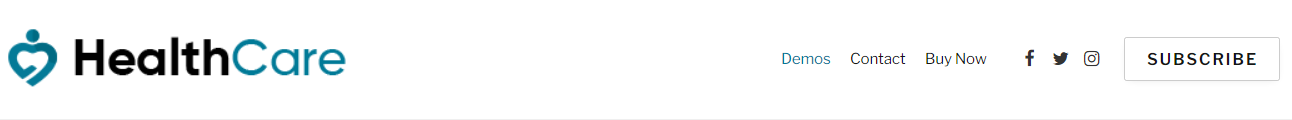
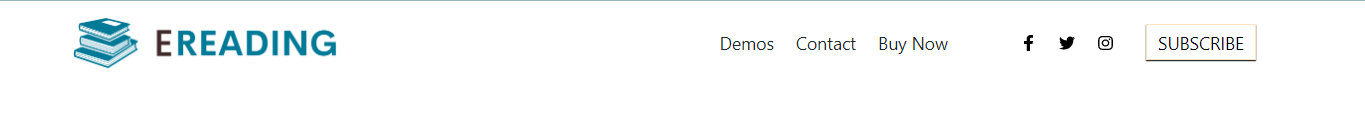
update module

diff --git a/front-end/module/E-01/less/style-01.less b/front-end/module/E-01/less/style-01.less
@@ -13,8 +13,10 @@
       align-items: center;
       flex: 1 1 auto;
        // nav right
-      .left-logo {
-        padding: 10px;
+    }
+    .left {
+      .left-logo{
+        width: 250px;
       }
     }
 
@@ -26,7 +28,7 @@
         .menu-top-nav {
           display: flex;
           list-style: none;
-          transform: translateY(13px);
+          // transform: translateY(13px);
           .menu-item {
             padding: 10px;
           }
@@ -60,4 +62,7 @@
 
     // .item
   }
+}
+ul{
+  margin: 0;
 }

diff --git a/front-end/module/E-01/css/style-01.css b/front-end/module/E-01/css/style-01.css
@@ -11,8 +11,8 @@
   align-items: center;
   flex: 1 1 auto;
 }
-.container .inner-wap .item .left-logo {
-  padding: 10px;
+.container .inner-wap .left .left-logo {
+  width: 250px;
 }
 .container .inner-wap .right {
   justify-content: space-around;
@@ -23,7 +23,7 @@
 .container .inner-wap .right .nav-wap .menu-top-nav {
   display: flex;
   list-style: none;
-  transform: translateY(13px);
+  margin-top: none;
 }
 .container .inner-wap .right .nav-wap .menu-top-nav .menu-item {
   padding: 10px;

diff --git a/front-end/module/E-01/01-content.php b/front-end/module/E-01/01-content.php
@@ -1,7 +1,7 @@
 <div class="container">
       <div class="inner-wap">
         <div class="item left">
-          <img class="left-logo" src="https://smartmag.theme-sphere.com/health/wp-content/uploads/sites/22/2021/11/logo-HealthCare-001-dark.png" alt="HealthCare">
+          <img class="left-logo" src="./images/header.png" alt="E-Reading">
         </div>
         <div class="item center"></div>
         <div class="item right">

diff --git a/front-end/module/E-14/14-content.php b/front-end/module/E-14/14-content.php
@@ -71,7 +71,7 @@
       <li class="nav-item me-3 me-lg-1">
         <a class="nav-link" href="#">
           <span><i class="fas fa-home fa-lg"></i></span>
-          <span class="badge rounded-pill badge-notification bg-danger">Product</span>
+          <span class="badge rounded-pill badge-notification bg-danger">Home</span>
         </a>
       </li>
       <li class="nav-item dropdown me-3 me-lg-1">

diff --git a/front-end/module/E-18/18-content.php b/front-end/module/E-18/18-content.php
@@ -1,4 +1,4 @@
-<div class="container">
+
 <div class="row flex-lg-nowrap">
 
   <div class="col">
@@ -187,4 +187,4 @@
     </div>
   </div>
 </div>
-</div>
+
